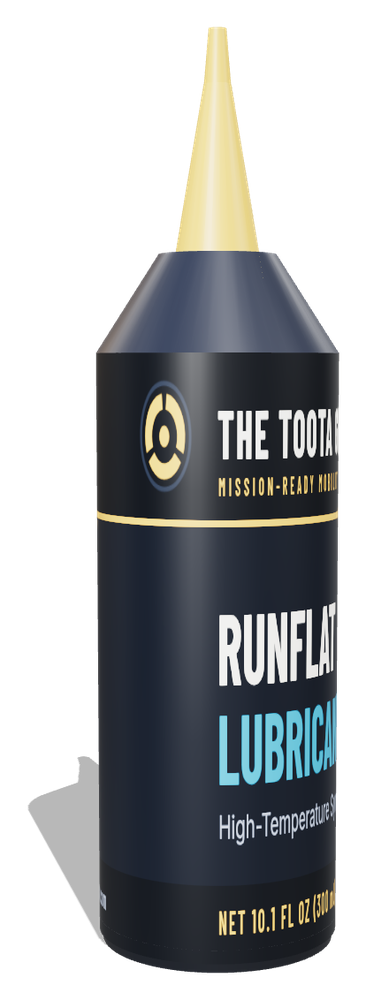
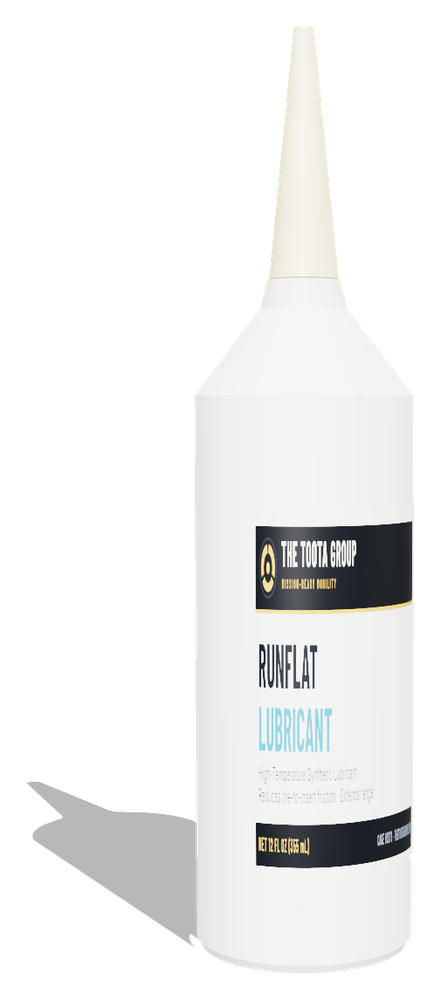
Redesign lubricant tube as realistic white caulk cartridge, fully legible label
- White DAP-style cartridge with long tapered nozzle and threaded collar
- Label on a curved front decal so every line reads (brand, product,
  specs, net weight, CAGE) instead of wrapping out of view
- Net weight updated to 12 fl oz (355 mL) per product spec

Claude-Session: https://claude.ai/code/session_01TYNXQEW64438utaVNfmpcW

diff --git a/runflats.html b/runflats.html
@@ -249,7 +249,7 @@
           <div class="product-media"><img src="assets/img/lubricant-tube.png" alt="RunFlat Lubricant applicator tube, 10.1 fl oz"></div>
           <div class="product-body">
             <h3>Applicator Tube</h3>
-            <p class="product-spec">10.1 fl oz (300 mL) · Standard cartridge</p>
+            <p class="product-spec">12 fl oz (355 mL) · Standard cartridge</p>
             <p>Perfect for single installs and field top-offs. Fits a standard caulk gun for controlled application.</p>
             <a class="btn btn-gold" href="contact.html">Request Pricing</a>
           </div>
